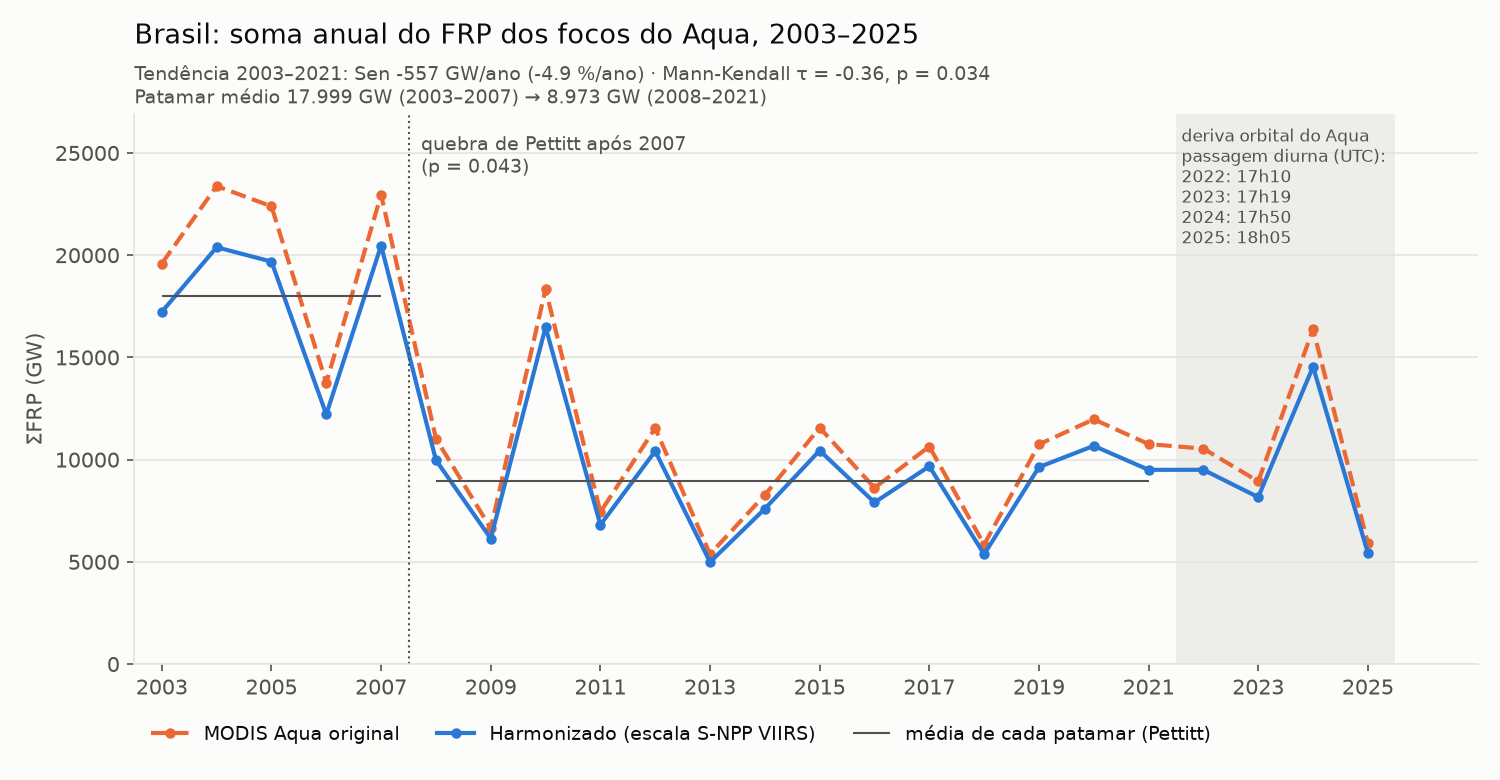
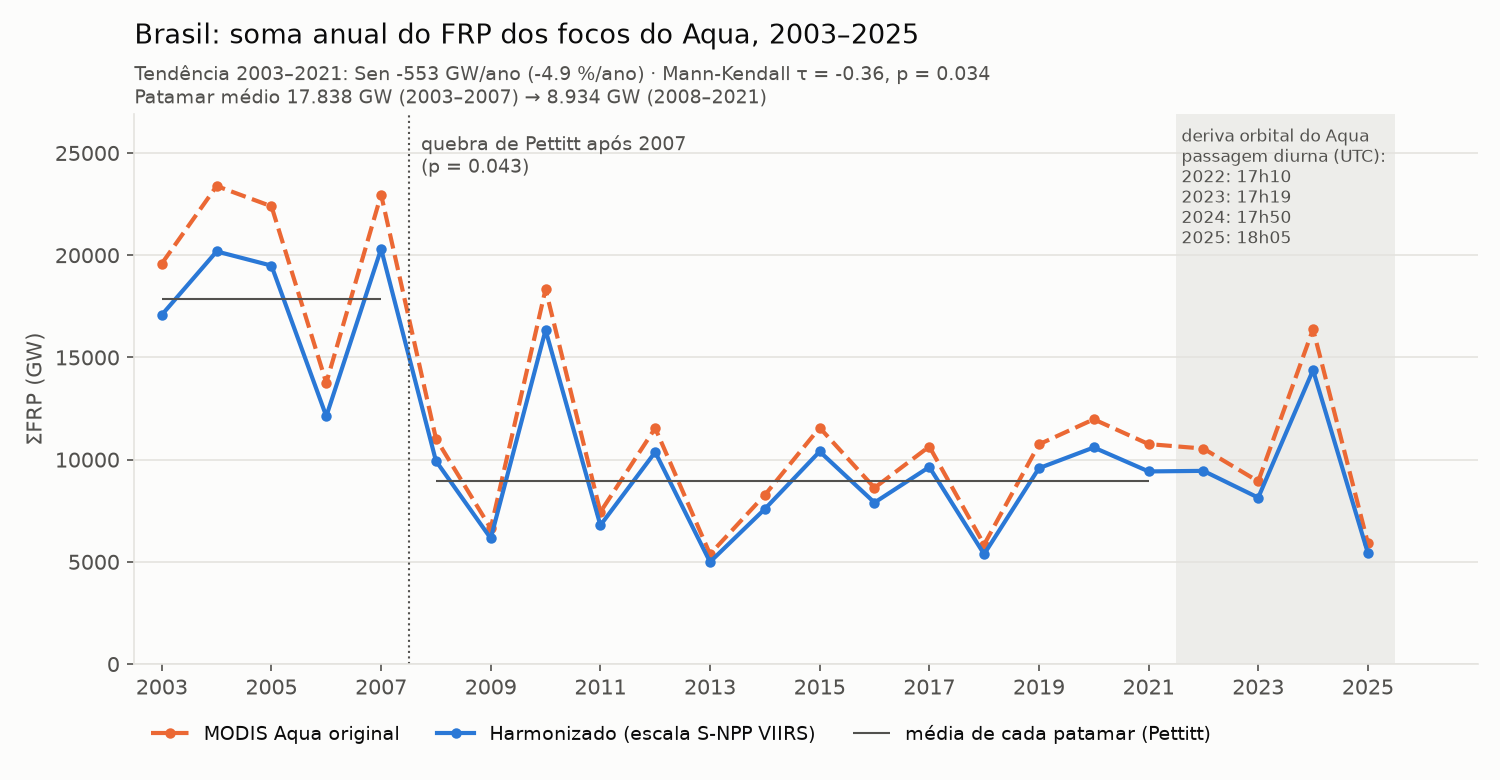
feat: termo de noite na calibração do FRP
Os limites de detecção de FRP do MODIS e do VIIRS diferem muito entre
dia e noite (Sofiev & Kouznetsov 2026, GMD 19:10123). A validação fora
da amostra mostrou que o modelo B superestimava o FRP noturno em 15 %.

Modelo: ln V = a + b ln M + c VZA + d·noite, Duan por faixa de VZA.
Teste 2019–2021: viés total +2,7 % → +0,9 %; noite +15,0 % → −0,1 %.
Modelo final: d = −0,153 (fator 0,86 à noite).

validate reporta vies_soma_dia_noite_pct; fuse e frp-calibrate usam o
termo; dicionários antigos sem d carregam com d = 0. Tendência 2003–2021
inalterada (−4,9 %/ano; Pettitt após 2007, p = 0,043).

diff --git a/firms_harmonize/frp/calibrate.py b/firms_harmonize/frp/calibrate.py
@@ -32,7 +32,9 @@ def _bin_index(vza: np.ndarray, width: float, n_bins: int) -> np.ndarray:
 @dataclass(frozen=True)
 class Calibration:
     """Coeficientes do modelo. Com `bin_width`, o fator de Duan é um por faixa de VZA (versão B):
-    o espalhamento dos resíduos muda com o ângulo, e um fator único erra as somas de cada faixa."""
+    o espalhamento dos resíduos muda com o ângulo, e um fator único erra as somas de cada faixa.
+    `d` é o termo de noite: os limites de detecção de FRP do MODIS e do VIIRS são diferentes de dia
+    e de noite (Sofiev & Kouznetsov 2026, GMD 19:10123); sem ele o FRP noturno saía +15 % alto."""
     a: float
     b: float
     c: float
@@ -40,16 +42,18 @@ class Calibration:
     n: int
     bin_width: float | None = None
     smearing_by_bin: tuple[float, ...] = ()
+    d: float = 0.0
 
     def _smearing_for(self, vza: np.ndarray) -> np.ndarray | float:
         if not self.bin_width or not self.smearing_by_bin:
             return self.smearing
         return np.asarray(self.smearing_by_bin)[_bin_index(vza, self.bin_width, len(self.smearing_by_bin))]
 
-    def predict(self, frp_modis, vza) -> np.ndarray:
-        """FRP MODIS (MW) → FRP equivalente S-NPP VIIRS (MW)."""
+    def predict(self, frp_modis, vza, night=None) -> np.ndarray:
+        """FRP MODIS (MW) → FRP equivalente S-NPP VIIRS (MW). `night` ausente = dia."""
         x, z = np.asarray(frp_modis, dtype=float), np.asarray(vza, dtype=float)
-        return self._smearing_for(z) * np.exp(self.a + self.b * np.log(x) + self.c * z)
+        nt = np.zeros_like(x) if night is None else np.asarray(night, dtype=float)
+        return self._smearing_for(z) * np.exp(self.a + self.b * np.log(x) + self.c * z + self.d * nt)
 
     def to_dict(self) -> dict:
         return asdict(self)
@@ -69,19 +73,25 @@ def _smearing_by_bin(resid: np.ndarray, vza: np.ndarray, width: float, overall: 
     return tuple(factors)
 
 
-def fit(frp_modis, vza, frp_viirs, bin_width: float | None = VZA_BIN_DEG) -> Calibration:
+def fit(frp_modis, vza, frp_viirs, night=None, bin_width: float | None = VZA_BIN_DEG) -> Calibration:
     x, z, y = (np.asarray(v, dtype=float) for v in (frp_modis, vza, frp_viirs))
     if len(x) < MIN_POINTS:
         raise ValueError(f"poucos pares para calibrar ({len(x)} < {MIN_POINTS})")
     if (x <= 0).any() or (y <= 0).any() or not np.isfinite(z).all():
         raise ValueError("FRP precisa ser positivo e a VZA, finita, em todos os pares")
-    design = np.column_stack([np.ones_like(x), np.log(x), z])
+    columns = [np.ones_like(x), np.log(x), z]
+    nt = np.zeros_like(x) if night is None else np.asarray(night, dtype=float)
+    with_night = 0 < nt.sum() < len(nt)   # só estima d quando há pares de dia e de noite
+    if with_night:
+        columns.append(nt)
+    design = np.column_stack(columns)
     coef, *_ = np.linalg.lstsq(design, np.log(y), rcond=None)
     resid = np.log(y) - design @ coef
     overall = float(np.mean(np.exp(resid)))
     by_bin = _smearing_by_bin(resid, z, bin_width, overall) if bin_width else ()
     return Calibration(a=float(coef[0]), b=float(coef[1]), c=float(coef[2]), smearing=overall,
-                       n=int(len(x)), bin_width=bin_width, smearing_by_bin=by_bin)
+                       n=int(len(x)), bin_width=bin_width, smearing_by_bin=by_bin,
+                       d=float(coef[3]) if with_night else 0.0)
 
 
 def evaluate(pred, obs) -> dict:
@@ -95,17 +105,21 @@ def evaluate(pred, obs) -> dict:
     }
 
 
+def is_night(pairs: pd.DataFrame) -> np.ndarray:
+    return pairs["daynight"].astype(str).eq("N").to_numpy()
+
+
 def _predictions(test: pd.DataFrame, cal: Calibration, k: float) -> dict:
     m = test["frp_modis"].to_numpy(float)
-    return {"sem_correcao": m, "fator_unico": k * m, "modelo_vza": cal.predict(m, test["vza"])}
+    return {"sem_correcao": m, "fator_unico": k * m,
+            "modelo_vza": cal.predict(m, test["vza"], is_night(test))}
 
 
-def _annual_bias(test: pd.DataFrame, preds: dict) -> dict:
-    years = test["date"].dt.year.to_numpy()
-    obs = test["frp_viirs"].to_numpy(float)
-    return {str(y): {name: round(float(100 * (p[years == y].sum() / obs[years == y].sum() - 1)), 2)
+def _group_bias(groups: np.ndarray, obs: np.ndarray, preds: dict) -> dict:
+    """Viés da soma (%) de cada modelo dentro de cada grupo (ano, dia/noite...)."""
+    return {str(g): {name: round(float(100 * (p[groups == g].sum() / obs[groups == g].sum() - 1)), 2)
                      for name, p in preds.items()}
-            for y in np.unique(years)}
+            for g in np.unique(groups)}
 
 
 def validate(pairs: pd.DataFrame, train: tuple[str, str], test: tuple[str, str]) -> dict:
@@ -113,7 +127,7 @@ def validate(pairs: pd.DataFrame, train: tuple[str, str], test: tuple[str, str])
     clean = pairs[~pairs["outlier"].astype(bool)]
     tr = clean[in_window(clean["date"], *train)]
     te = clean[in_window(clean["date"], *test)]
-    cal = fit(tr["frp_modis"], tr["vza"], tr["frp_viirs"])
+    cal = fit(tr["frp_modis"], tr["vza"], tr["frp_viirs"], night=is_night(tr))
     k = float(tr["frp_viirs"].sum() / tr["frp_modis"].sum())
     preds = _predictions(te, cal, k)
     obs = te["frp_viirs"].to_numpy(float)
@@ -121,5 +135,6 @@ def validate(pairs: pd.DataFrame, train: tuple[str, str], test: tuple[str, str])
         "treino": {"janela": list(train), "pares": int(len(tr)), "modelo": cal.to_dict(), "fator_unico": k},
         "teste": {"janela": list(test), "pares": int(len(te)),
                   "modelos": {name: evaluate(p, obs) for name, p in preds.items()},
-                  "vies_soma_anual_pct": _annual_bias(te, preds)},
+                  "vies_soma_anual_pct": _group_bias(te["date"].dt.year.to_numpy(), obs, preds),
+                  "vies_soma_dia_noite_pct": _group_bias(te["daynight"].astype(str).to_numpy(), obs, preds)},
     }

diff --git a/tests/test_frp_calibrate.py b/tests/test_frp_calibrate.py
@@ -7,14 +7,15 @@ from firms_harmonize.frp.calibrate import Calibration, evaluate, fit, validate
 A, B, C = -0.2, 0.9, -0.003
 
 
-def _synthetic(n=4000, sigma=0.0, seed=0, start="2012-02-01", end="2021-12-31"):
+def _synthetic(n=4000, sigma=0.0, seed=0, start="2012-02-01", end="2021-12-31", night_effect=0.0):
     rng = np.random.default_rng(seed)
     frp_m = np.exp(rng.normal(3.0, 1.0, n))
     vza = rng.uniform(0, 65, n)
-    frp_v = np.exp(A + B * np.log(frp_m) + C * vza + rng.normal(0, sigma, n))
+    night = rng.random(n) < 0.2
+    frp_v = np.exp(A + B * np.log(frp_m) + C * vza + night_effect * night + rng.normal(0, sigma, n))
     dates = pd.to_datetime(rng.integers(pd.Timestamp(start).value, pd.Timestamp(end).value, n))
     return pd.DataFrame({"date": dates, "frp_modis": frp_m, "frp_viirs": frp_v, "vza": vza,
-                         "outlier": False})
+                         "daynight": np.where(night, "N", "D"), "outlier": False})
 
 
 def test_fit_recovers_known_coefficients_without_noise():
@@ -135,3 +136,40 @@ def test_validate_uses_smearing_by_bin():
     rep = validate(_heteroscedastic(), train=("2012-02", "2018-12"), test=("2019-01", "2021-12"))
     assert rep["treino"]["modelo"]["bin_width"] == 10
     assert len(rep["treino"]["modelo"]["smearing_by_bin"]) == 7
+
+
+# ---------- termo de noite (limites de detecção diferentes de dia e de noite) ----------
+
+D_NIGHT = -0.15
+
+
+def test_fit_recovers_night_coefficient_without_noise():
+    p = _synthetic(night_effect=D_NIGHT)
+    cal = fit(p["frp_modis"], p["vza"], p["frp_viirs"], night=p["daynight"].eq("N"))
+    assert (cal.a, cal.b, cal.c, cal.d) == pytest.approx((A, B, C, D_NIGHT), abs=1e-9)
+
+
+def test_predict_applies_night_term_and_defaults_to_day():
+    cal = Calibration(a=0.0, b=1.0, c=0.0, smearing=1.0, n=1, d=np.log(0.5))
+    assert cal.predict([10.0, 10.0], [0.0, 0.0], night=[False, True]) == pytest.approx([10.0, 5.0])
+    assert cal.predict([10.0], [0.0]) == pytest.approx([10.0])
+
+
+def test_fit_without_night_pairs_keeps_d_zero():
+    p = _synthetic()
+    cal = fit(p["frp_modis"], p["vza"], p["frp_viirs"], night=np.zeros(len(p), dtype=bool))
+    assert cal.d == 0.0 and (cal.a, cal.b, cal.c) == pytest.approx((A, B, C), abs=1e-9)
+
+
+def test_old_dict_without_night_term_loads_with_d_zero():
+    old = {"a": 0.1, "b": 0.9, "c": -0.001, "smearing": 1.3, "n": 5}
+    assert Calibration.from_dict(old).d == 0.0
+
+
+def test_validate_reports_day_and_night_bias_and_fixes_night_bias():
+    rep = validate(_synthetic(n=20_000, sigma=0.3, night_effect=D_NIGHT),
+                   train=("2012-02", "2018-12"), test=("2019-01", "2021-12"))
+    dn = rep["teste"]["vies_soma_dia_noite_pct"]
+    assert set(dn) == {"D", "N"}
+    assert abs(dn["N"]["modelo_vza"]) < 3.0 and abs(dn["D"]["modelo_vza"]) < 3.0
+    assert rep["treino"]["modelo"]["d"] == pytest.approx(D_NIGHT, abs=0.02)

diff --git a/firms_harmonize/cli.py b/firms_harmonize/cli.py
@@ -167,12 +167,12 @@ FRP_TRAIN, FRP_TEST = ("2012-02", "2018-12"), ("2019-01", "2021-12")
 
 
 def cmd_frp_calibrate(args):
-    from .frp.calibrate import Calibration, fit, validate
+    from .frp.calibrate import Calibration, fit, is_night, validate
     from .frp.prepare import in_window
     pairs = pd.read_parquet(FRP_DIR / "pairs.parquet")
     rep = validate(pairs, train=FRP_TRAIN, test=FRP_TEST)
     clean = pairs[~pairs["outlier"]]
-    final = fit(clean["frp_modis"], clean["vza"], clean["frp_viirs"])  # todos os anos, para a fusão
+    final = fit(clean["frp_modis"], clean["vza"], clean["frp_viirs"], night=is_night(clean))  # todos os anos
     out = {"validacao": rep, "modelo_final": final.to_dict()}
     (FRP_DIR / "frp_calibration.json").write_text(json.dumps(out, indent=2, ensure_ascii=False))
 
@@ -181,6 +181,8 @@ def cmd_frp_calibrate(args):
     print(pd.DataFrame(rep["teste"]["modelos"]).T.round(3).to_string())
     print("\nViés da soma anual no teste (%):")
     print(pd.DataFrame(rep["teste"]["vies_soma_anual_pct"]).T.to_string())
+    print("\nViés da soma dia (D) e noite (N) no teste (%):")
+    print(pd.DataFrame(rep["teste"]["vies_soma_dia_noite_pct"]).T.to_string())
 
     te = clean[in_window(clean["date"], *FRP_TEST)]
     cal, k = Calibration.from_dict(rep["treino"]["modelo"]), rep["treino"]["fator_unico"]
@@ -190,7 +192,7 @@ def cmd_frp_calibrate(args):
     print("\nViés da soma por faixa de VZA no teste (%):")
     print(pd.DataFrame({
         "fator_unico": 100 * (soma(k * te["frp_modis"]) / obs - 1),
-        "modelo_vza": 100 * (soma(pd.Series(cal.predict(te["frp_modis"], te["vza"]), index=te.index)) / obs - 1),
+        "modelo_vza": 100 * (soma(pd.Series(cal.predict(te["frp_modis"], te["vza"], is_night(te)), index=te.index)) / obs - 1),
     }).round(1).to_string())
     print("\nModelo final (2012-02 a 2021-12):", final.to_dict())
 

diff --git a/firms_harmonize/frp/fuse.py b/firms_harmonize/frp/fuse.py
@@ -29,7 +29,7 @@ def fuse(aqua: pd.DataFrame, pairs: pd.DataFrame, cal: Calibration) -> pd.DataFr
         raise ValueError("par duplicado: o mesmo pixel MODIS aparece em mais de um par")
     merged = aqua.reset_index(drop=True).merge(valid, on=KEY, how="left", validate="many_to_one")
     has_pair = merged["frp_viirs"].notna().to_numpy()
-    calibrated = cal.predict(merged["frp"], merged["vza"])
+    calibrated = cal.predict(merged["frp"], merged["vza"], merged["daynight"].astype(str).eq("N"))
     return pd.DataFrame({
         **{c: merged[c].to_numpy() for c in ["date", "minute", "daynight", "lat", "lon", "scan", "track", "vza"]},
         "frp_modis": merged["frp"].to_numpy(float),

diff --git a/tests/test_frp_fuse.py b/tests/test_frp_fuse.py
@@ -72,3 +72,10 @@ def test_annual_totals_reports_median_daytime_overpass_minute():
     t = annual_totals(fuse(aqua, _pairs([]), CAL)).set_index("ano")
     assert t.loc[2015, "passagem_dia_min_utc"] == 1000      # mediana de 1000, 1000, 1000, 1030; noite fora
     assert t.loc[2005, "passagem_dia_min_utc"] == 1000
+
+
+def test_calibrated_night_pixels_use_the_night_term():
+    cal = Calibration(a=0.0, b=1.0, c=0.0, smearing=1.0, n=1, d=np.log(0.5))
+    aqua = AQUA.assign(daynight=["D", "N", "D", "N"])
+    f = fuse(aqua, _pairs([]), cal)
+    assert f["frp_harm"].tolist() == pytest.approx([40.0, 15.0, 20.0, 5.0])
